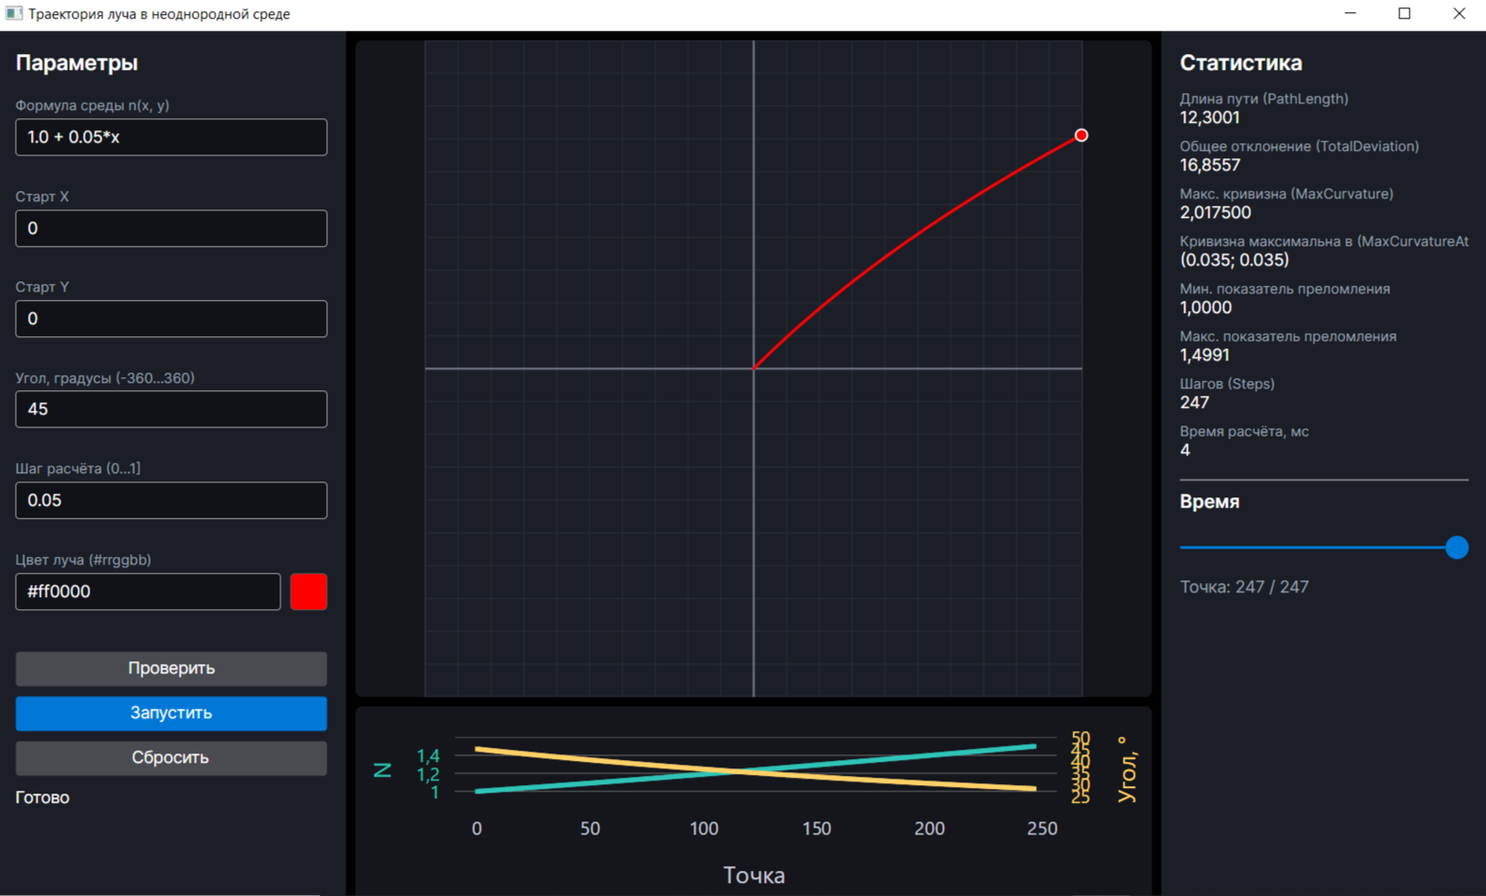
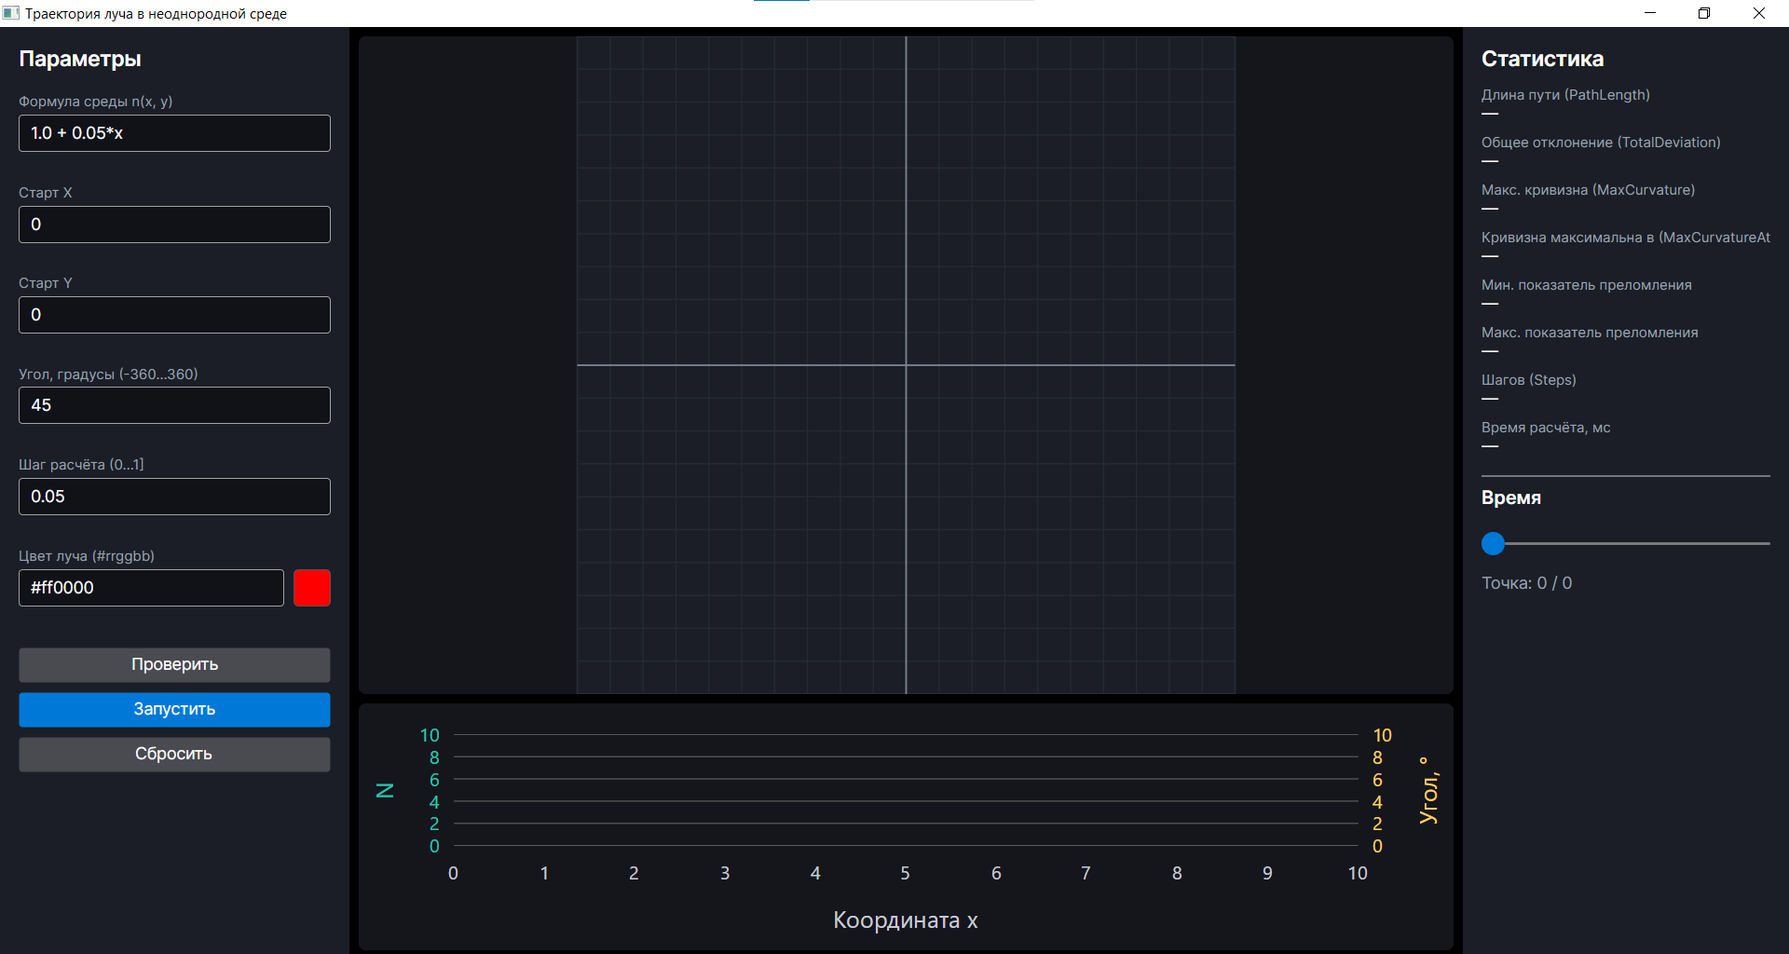
fix: resolve audit issues (parser, UI integration, docs)

diff --git a/Core/Physics/RayCalculator.cs b/Core/Physics/RayCalculator.cs
@@ -23,6 +23,10 @@ public class RayCalculator
 
         try
         {
+            double startN = parser.Evaluate(request.StartPoint.X);
+            if (double.IsNaN(startN) || double.IsInfinity(startN) || startN <= 0)
+                throw new Exception($"Invalid initial refraction index at start point: {startN}");
+
             var trajectory = CalculateTrajectory(request, parser);
             result.Trajectory = trajectory;
             result.Success = true;
@@ -48,13 +52,7 @@ public class RayCalculator
         double angle = request.StartAngle;
         double step = request.StepSize;
 
-        points.Add(new TrajectoryPoint
-        {
-            X = x,
-            Y = y,
-            N = SafeEvaluate(parser, x),
-            Angle = angle
-        });
+        points.Add(new TrajectoryPoint { X = x, Y = y, N = SafeEvaluate(parser, x), Angle = angle });
 
         int maxSteps = 100000;
         int steps = 0;
@@ -73,8 +71,8 @@ public class RayCalculator
 
             double n2 = SafeEvaluate(parser, newX);
 
-            if (n2 <= 0)
-                throw new Exception($"Refraction index cannot be ≤ 0 (at x = {newX:F3})");
+            if (double.IsNaN(n2) || double.IsInfinity(n2) || n2 <= 0)
+                throw new Exception($"Refraction index invalid (≤ 0 or NaN) at x = {newX:F3}");
 
             double sinA1 = Math.Sin(angle * DegToRad);
             double sinA2 = n1 * sinA1 / n2;
@@ -83,7 +81,12 @@ public class RayCalculator
                 throw new Exception($"Total internal reflection at x = {newX:F3}");
 
             double newAngle = Math.Asin(sinA2) * RadToDeg;
-            if (dx < 0) newAngle = 180.0 - newAngle;
+            
+            // Нормализация угла при переходе через 180 градусов, чтобы не было скачков
+            if (dx < 0) 
+                newAngle = 180.0 - newAngle;
+            else if (dx >= 0 && angle > 90) 
+                newAngle = 180.0 - newAngle;
 
             x = newX;
             y = newY;
@@ -92,10 +95,8 @@ public class RayCalculator
 
             points.Add(new TrajectoryPoint
             {
-                X = Math.Round(x, 4),
-                Y = Math.Round(y, 4),
-                N = Math.Round(n2, 4),
-                Angle = Math.Round(angle, 4)
+                X = Math.Round(x, 4), Y = Math.Round(y, 4),
+                N = Math.Round(n2, 4), Angle = Math.Round(angle, 4)
             });
         }
 
@@ -104,7 +105,15 @@ public class RayCalculator
 
     private double SafeEvaluate(FormulaParser parser, double x)
     {
-        try { return parser.Evaluate(x); }
-        catch (Exception ex) { throw new Exception($"Error at x = {x:F3}: {ex.Message}"); }
+        try 
+        { 
+            var val = parser.Evaluate(x);
+            if (double.IsNaN(val) || double.IsInfinity(val)) return -1; // Спровоцирует ошибку на следующем шаге
+            return val; 
+        }
+        catch (Exception ex) 
+        { 
+            throw new Exception($"Error at x = {x:F3}: {ex.Message}"); 
+        }
     }
 }

diff --git a/Core/Formula/FormulaParser.cs b/Core/Formula/FormulaParser.cs
@@ -43,6 +43,7 @@ public class FormulaParser
         return result;
     }
 
+    // Обработка сложения и вычитания (бинарные операторы)
     private double ParseExpression(double x)
     {
         var left = ParseTerm(x);
@@ -55,6 +56,7 @@ public class FormulaParser
         return left;
     }
 
+    // Обработка умножения и деления
     private double ParseTerm(double x)
     {
         var left = ParseFactor(x);
@@ -72,17 +74,18 @@ public class FormulaParser
         return left;
     }
 
+    // Обработка унарного минуса (например, -x или -5)
     private double ParseFactor(double x)
     {
-        var value = ParsePower(x);
         if (_pos < _formula.Length && _formula[_pos] == '-')
         {
             _pos++;
             return -ParseFactor(x);
         }
-        return value;
+        return ParsePower(x);
     }
 
+    // Обработка степеней
     private double ParsePower(double x)
     {
         var baseValue = ParsePrimary(x);

diff --git a/Core/Statistics/StatisticsCalculator.cs b/Core/Statistics/StatisticsCalculator.cs
@@ -25,7 +25,7 @@ public static class StatisticsCalculator
         int maxCurvatureIndex = 0;
         for (int i = 1; i < trajectory.Count; i++)
         {
-            double dAngle = Math.Abs(trajectory[i].Angle - trajectory[i - 1].Angle);
+            double dAngle = Math.Abs(trajectory[i].Angle - trajectory[i - 1].Angle) * (Math.PI / 180.0);
             double dx = trajectory[i].X - trajectory[i - 1].X;
             double dy = trajectory[i].Y - trajectory[i - 1].Y;
             double dLen = Math.Sqrt(dx * dx + dy * dy);

diff --git a/UI/Controls/RefractionChart.cs b/UI/Controls/RefractionChart.cs
@@ -27,7 +27,7 @@ public class RefractionChart : UserControl
             LegendTextPaint = new SolidColorPaint(Text),
             XAxes = new[]
             {
-                new Axis { Name = "Точка", LabelsPaint = new SolidColorPaint(Text), NamePaint = new SolidColorPaint(Text) }
+                new Axis { Name = "Координата x", LabelsPaint = new SolidColorPaint(Text), NamePaint = new SolidColorPaint(Text) }
             },
             YAxes = new[]
             {

diff --git a/UI/Helpers/Validators.cs b/UI/Helpers/Validators.cs
@@ -32,7 +32,7 @@ public static class Validators
             return ValidationResult.Fail("Формула не может быть пустой");
 
         var s = value.Trim();
-        if (s.Length < 4)
+        if (s.Length < 1)
             return ValidationResult.Fail("Формула слишком короткая");
 
         foreach (var c in s)

diff --git a/README.md b/README.md
@@ -1,5 +1,7 @@
 # Преломление света в неоднородных средах
 
+![Скриншот программы](docs/screenshot.png)
+
 Программа моделирует и визуализирует прохождение луча света через среду, свойства которой плавно меняются от точки к точке. Луч не идёт по прямой — он искривляется, а рядом с траекторией показывается график изменения показателя преломления и угла наклона луча вдоль пути.
 
 **Полное описание программы:** [`docs/description.md`](docs/description.md)
@@ -7,39 +9,38 @@
 ---
 
 ## Архитектура
-
-```
 ┌─────────────────────────────────────────────────────────────┐
-│                    Avalonia-приложение                      │
-│  ┌───────────────────────────────────────────────────────┐  │
-│  │  UI — то, что видит пользователь       (Захар)        │  │
-│  │  • поля ввода формулы среды                           │  │
-│  │  • поля координат, угла, шага, цвета                  │  │
-│  │  • валидация ввода                                    │  │
-│  │  • анимация луча (Canvas + DrawingContext)            │  │
-│  │  • график преломления (LiveChartsCore)                │  │
-│  │  • ползунок времени, панель статистики                │  │
-│  └───────────────────────────────────────────────────────┘  │
+│ Avalonia-приложение │
+│ ┌───────────────────────────────────────────────────────┐ │
+│ │ UI — то, что видит пользователь (Захар) │ │
+│ │ • поля ввода формулы среды │ │
+│ │ • поля координат, угла, шага, цвета │ │
+│ │ • валидация ввода │ │
+│ │ • анимация луча (Canvas + DrawingContext) │ │
+│ │ • график преломления (LiveChartsCore) │ │
+│ │ • ползунок времени, панель статистики │ │
+│ └───────────────────────────────────────────────────────┘ │
 └──────────────────────────────┬──────────────────────────────┘
-                               │  HTTP-запрос → JSON
-                               ▼
+│ HTTP-запрос → JSON
+▼
 ┌─────────────────────────────────────────────────────────────┐
-│  Controller — «приёмная»       (ASP.NET Core)               │
-│  • принимает HTTP-запросы из UI                             │
-│  • передаёт их в Core                                       │
-│  • возвращает ответ обратно в UI                            │
+│ Controller — «приёмная» (ASP.NET Core) │
+│ • принимает HTTP-запросы из UI │
+│ • передаёт их в Core │
+│ • возвращает ответ обратно в UI │
 └──────────────────────────────┬──────────────────────────────┘
-                               │  вызов C# методов
-                               ▼
+│ вызов C# методов
+▼
 ┌─────────────────────────────────────────────────────────────┐
-│  Core — «мозг»                            (Всеволод)        │
-│  • читает формулу среды (Парсер)                            │
-│  • проверяет её на корректность                             │
-│  • считает траекторию луча в неоднородной среде             │
-│  • находит точку максимальной кривизны                      │
-│  • считает статистику (путь, отклонение, шаги, время)       │
+│ Core — «мозг» (Всеволод) │
+│ • читает формулу среды (Парсер) │
+│ • проверяет её на корректность │
+│ • считает траекторию луча в неоднородной среде │
+│ • находит точку максимальной кривизны │
+│ • считает статистику (путь, отклонение, шаги, время) │
 └─────────────────────────────────────────────────────────────┘
-```
+
+text
 
 Три слоя общаются между собой **только через JSON**. UI ничего не знает о физике, Core ничего не знает о кнопках. Это позволяет Захару и Всеволоду работать параллельно и не мешать друг другу.
 
@@ -52,25 +53,27 @@
 | **Всеволод** | Папки `Core/` и `Controller/`. Пишет на C#: парсер формул, проверку корректности, движок расчёта траектории луча, статистику. Controller — ASP.NET Core сервер с двумя эндпоинтами. |
 | **Захар** | Папку `UI/`. Пишет на C# (Avalonia): окно с полями ввода, кнопки, валидацию, анимацию луча через `Canvas` и `DrawingContext`, график преломления на LiveChartsCore, ползунок времени, панель статистики. Общается с Controller через `HttpClient`. |
 | **Максим** | Тимлид. Координация, приёмка и одобрение пул-реквестов, слияние `development` в `main`, разрешение конфликтов. Помогает обоим, если что-то не сходится. |
+
 ---
 
 ## Структура папок
-
-```
 lab1/
-├── README.md                  ← этот файл
+├── README.md ← этот файл
+├── LICENSE ← лицензия MIT
 ├── .gitignore
 ├── .editorconfig
 ├── global.json
-├── lab1.sln                   ← solution, объединяющий три проекта
+├── lab1.sln ← solution, объединяющий три проекта
 │
 ├── docs/
-│   └── description.md         ← описание программы
+│ ├── description.md ← описание программы
+│ └── screenshot.png ← скриншот интерфейса
 │
-├── Core/                      ← пишет Всеволод (C#, библиотека классов)
-├── Controller/                ← пишет Всеволод (C#, ASP.NET Core)
-└── UI/                        ← пишет Захар (C#, Avalonia)
-```
+├── Core/ ← пишет Всеволод (C#, библиотека классов)
+├── Controller/ ← пишет Всеволод (C#, ASP.NET Core)
+└── UI/ ← пишет Захар (C#, Avalonia)
+
+text
 
 ---
 
@@ -92,15 +95,13 @@ UI общается с Controller через два эндпоинта. Форм
   "bounds": { "xMin": -10.0, "xMax": 10.0, "yMin": -10.0, "yMax": 10.0 },
   "color": "#ff0000"
 }
-```
+Ответ при успехе:
 
-**Ответ при успехе:**
-```json
+json
 { "valid": true }
-```
+Ответ при ошибке:
 
-**Ответ при ошибке:**
-```json
+json
 {
   "valid": false,
   "errors": [
@@ -111,14 +112,12 @@ UI общается с Controller через два эндпоинта. Форм
     }
   ]
 }
-```
+2. Полный расчёт
+POST /api/simulate/run — тяжёлый расчёт траектории луча.
 
-### 2. Полный расчёт
+Ответ при успехе:
 
-**`POST /api/simulate/run`** — тяжёлый расчёт траектории луча.
-
-**Ответ при успехе:**
-```json
+json
 {
   "success": true,
   "trajectory": [
@@ -136,54 +135,45 @@ UI общается с Controller через два эндпоинта. Форм
     "computationTimeMs": 18
   }
 }
-```
-
-### Формат ошибки — единый
-
-```json
+Формат ошибки — единый
+json
 {
   "code": "INVALID_FORMULA",
   "field": "environmentFormula",
   "message": "Понятное человеку объяснение"
 }
-```
+Коды ошибок
+Код	Когда
+EMPTY_FIELD	Поле пустое
+INVALID_FORMULA	Формула содержит недопустимые символы
+UNBALANCED_PARENTHESES	Не сбалансированы скобки
+DIVISION_BY_ZERO	Деление на ноль в формуле
+OUT_OF_BOUNDS	Начальная точка вне области расчёта
+INVALID_ANGLE	Угол вне допустимого диапазона
+INVALID_STEP	Шаг ≤ 0 или слишком большой
+INVALID_COLOR	Цвет не из допустимого набора
+NO_SOLUTION	Уравнение не имеет решения
+CALCULATION_FAILED	Ошибка во время расчёта
+Единицы измерения
+Время — миллисекунды
 
-### Коды ошибок
+Координаты — условные единицы оси
 
-| Код | Когда |
-|---|---|
-| `EMPTY_FIELD` | Поле пустое |
-| `INVALID_FORMULA` | Формула содержит недопустимые символы |
-| `UNBALANCED_PARENTHESES` | Не сбалансированы скобки |
-| `DIVISION_BY_ZERO` | Деление на ноль в формуле |
-| `OUT_OF_BOUNDS` | Начальная точка вне области расчёта |
-| `INVALID_ANGLE` | Угол вне допустимого диапазона |
-| `INVALID_STEP` | Шаг ≤ 0 или слишком большой |
-| `INVALID_COLOR` | Цвет не из допустимого набора |
-| `NO_SOLUTION` | Уравнение не имеет решения |
-| `CALCULATION_FAILED` | Ошибка во время расчёта |
+Углы — градусы
 
-### Единицы измерения
+Цвета — строки вида #rrggbb
 
-- **Время** — секунды
-- **Координаты** — условные единицы оси
-- **Углы** — градусы
-- **Цвета** — строки вида `#rrggbb`
-- **Все поля** — в camelCase
+Все поля — в camelCase
 
----
+Правила совместной работы
+Ветки: main (финальная, только тимлид), development (сюда стекаются PR), feature/... (личные ветки разработчиков: feature/core — Всеволод, feature/ui — Захар).
 
-## Правила совместной работы
+Прямой push в main и development запрещён. Только через Pull Request.
 
-- **Ветки:** `main` (финальная, только тимлид), `development` (сюда стекаются PR), `feature/...` (личные ветки разработчиков: `feature/core` — Всеволод, `feature/ui` — Захар).
-- **Прямой push в `main` и `development` запрещён.** Только через Pull Request.
-- **Ветки не удаляем, коммиты не склеиваем** — проверяющий должен видеть весь процесс.
-- **Откат — только `git revert`**, не `git reset`.
-- **Сообщения коммитов — на английском**, в повелительном наклонении: `feat(core): add parser`, `fix(ui): correct timer`.
-- **`git status` в любой непонятной ситуации.**
+Ветки не удаляем, коммиты не склеиваем — проверяющий должен видеть весь процесс.
 
----
+Откат — только git revert, не git reset.
 
-## Лицензия
+Сообщения коммитов — на английском, в повелительном наклонении: feat(core): add parser, fix(ui): correct timer.
 
-MIT — см. [`LICENSE`](LICENSE).
+git status в любой непонятной ситуации.
